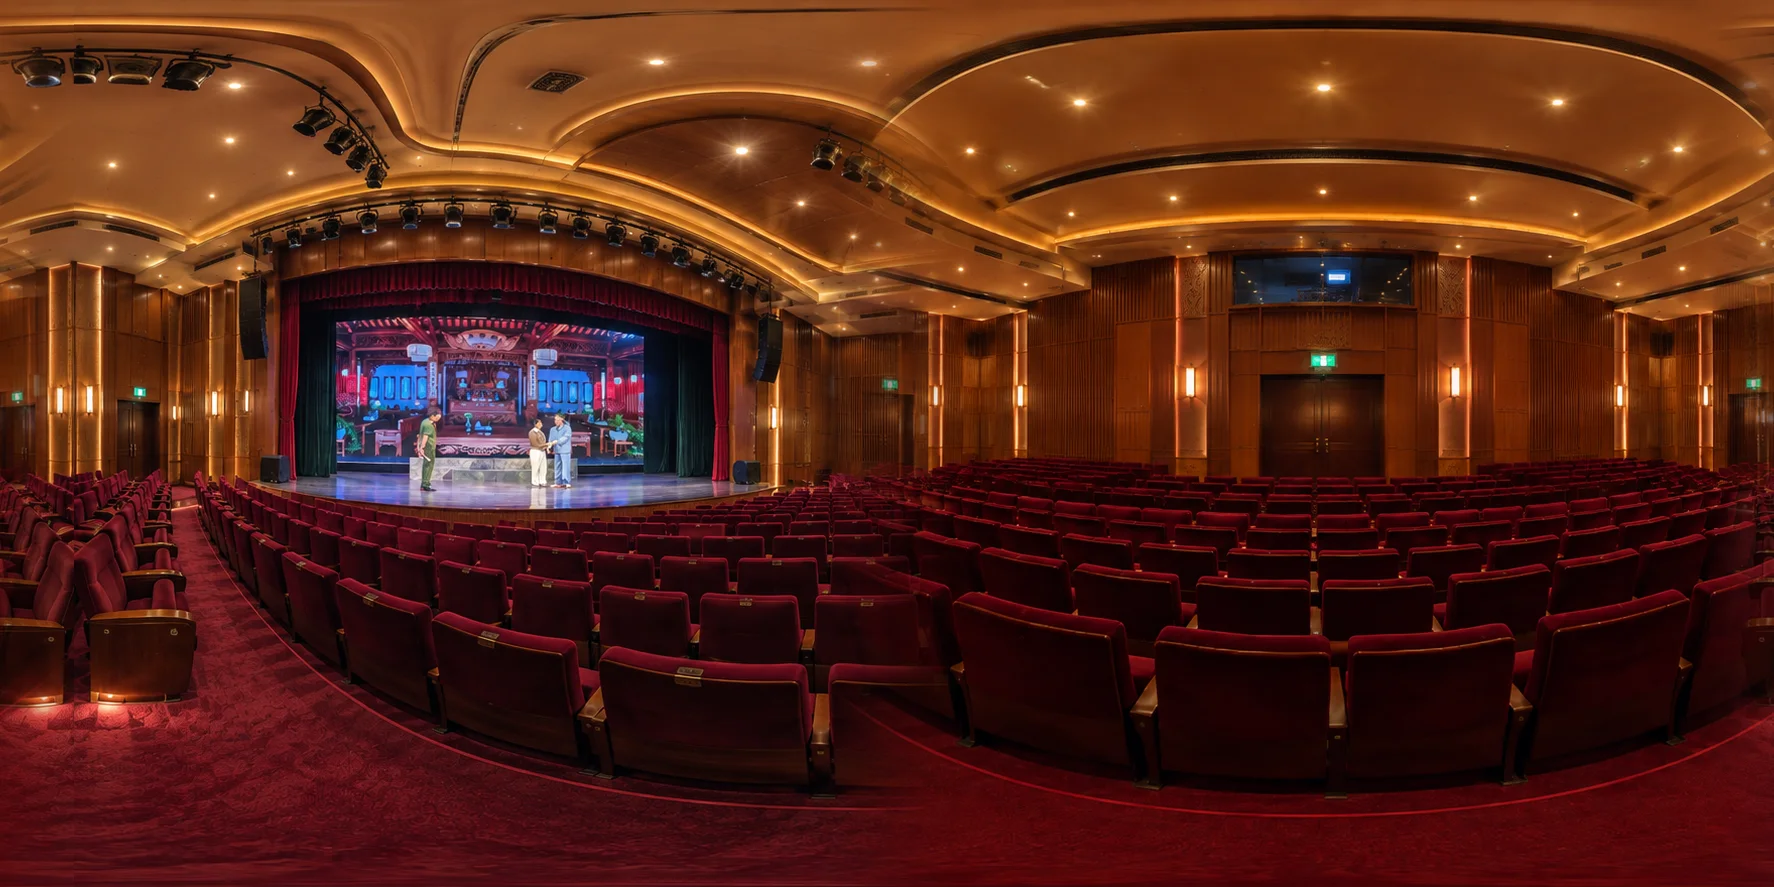
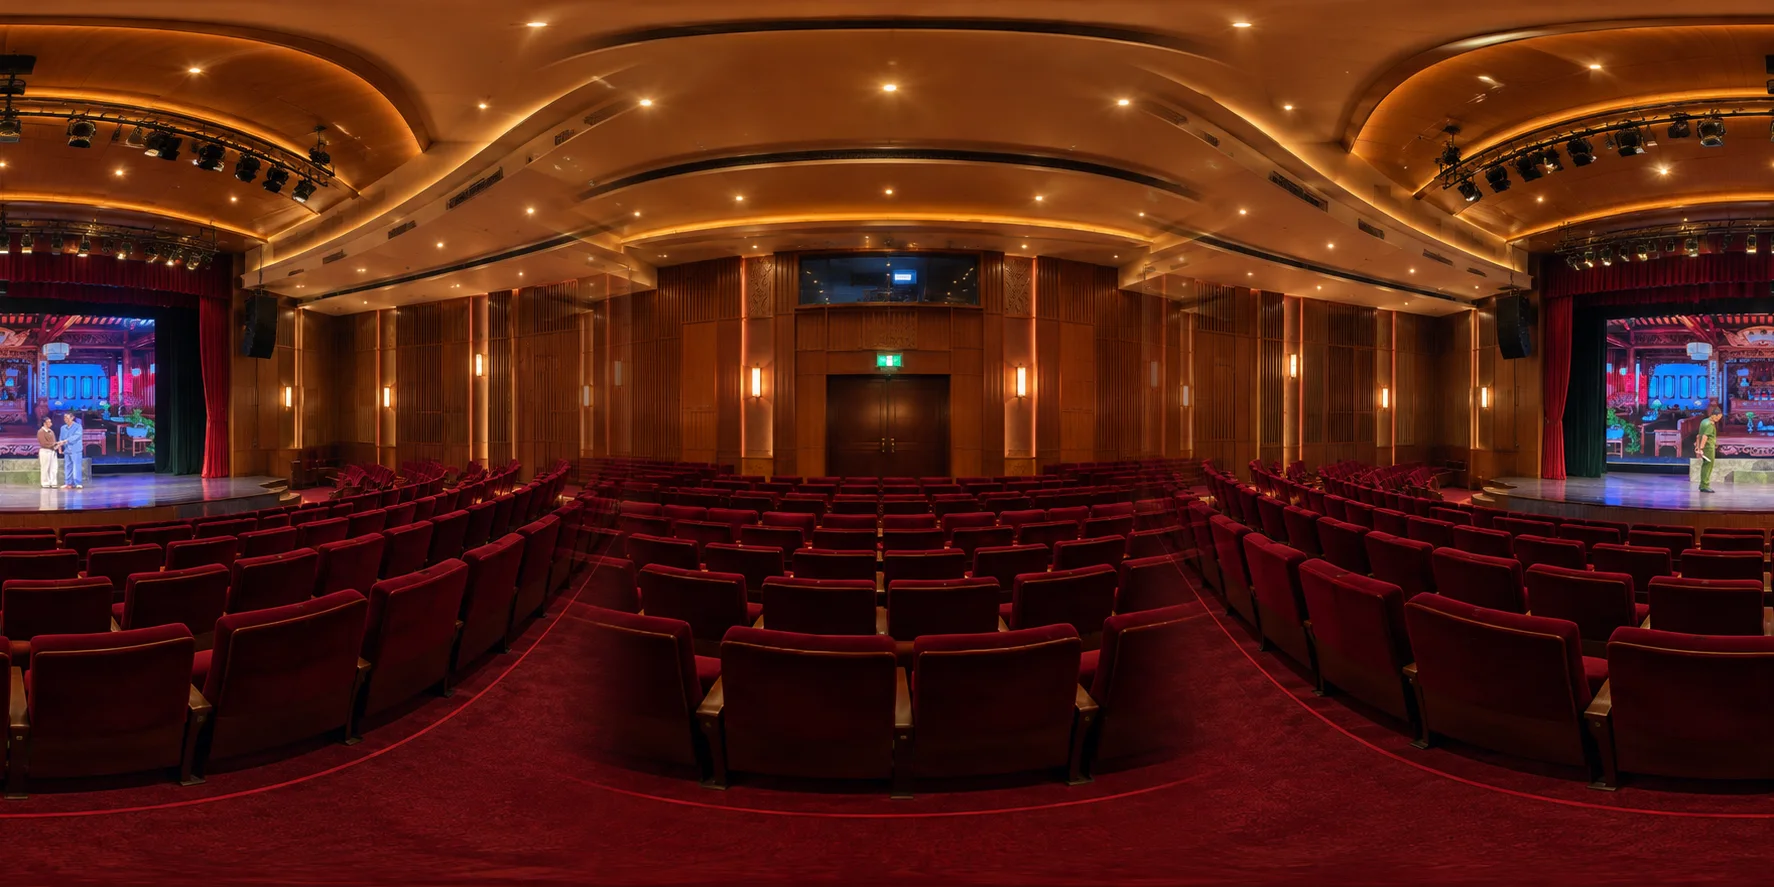
Ghép lại ảnh khán phòng từ hai tấm nguồn mới
Lần này CẢ HAI tấm nguồn đều là 180 độ gập đôi: tấm mặt trước lệch 9,4 so
với nền 28,2, tấm mặt sau 7,5 so với nền 21,2. Tấm mặt trước cũ (đã bị thay)
là 360 độ thật nên ghép ra được ảnh không đối xứng; lần này không còn cách
nào ghép ra ảnh không đối xứng từ hai nửa gập.

Cách ghép đổi theo: lấy 240 độ quanh sân khấu của tấm trước, 120 độ quanh
tường cuối của tấm sau, hoà mờ 30 độ ở hai chỗ nối — chỗ nối rơi vào tường
hai bên nên không thấy vết. Mối nối trái-phải 5,6/255.

Kết quả: sân khấu hiện ĐÚNG MỘT LẦN ở 0 độ, tường cuối phòng với phòng kỹ
thuật hiện đúng một lần ở 180 độ, quay một vòng đi hết được phòng. Nhưng
hai bên tường là ảnh gương của nhau, nên phép quét vẫn báo đối xứng (9 so
với nền 25,7). Khán phòng thật vốn đối xứng qua trục sân khấu - lối đi giữa,
nên nhìn không sai, chỉ là không phải 360 độ nội dung riêng biệt.

Sân khấu nằm ở 0 độ nên data-yaw đổi từ 90 xuống 0. Ảnh lên ?v=4.

diff --git a/trai-nghiem.html b/trai-nghiem.html
@@ -9,7 +9,7 @@
 <link rel="preconnect" href="https://fonts.googleapis.com" />
 <link rel="preconnect" href="https://fonts.gstatic.com" crossorigin />
 <link href="https://fonts.googleapis.com/css2?family=Be+Vietnam+Pro:wght@400;500;600;700&family=Noto+Serif:wght@400;700;900&family=Playfair+Display:wght@700;900&display=swap" rel="stylesheet" />
-<link rel="stylesheet" href="./styles.css?v=64" />
+<link rel="stylesheet" href="./styles.css?v=65" />
 <link rel="icon" type="image/png" href="./anh/logo.png" />
 </head>
 <body>
@@ -118,7 +118,7 @@
          Chỉ khai báo ở ĐÂY một lần. pano.js nhân bản nguyên hàng này vào trong
          khung để dùng khi xem toàn màn hình, nên thêm ở đây là có ở cả hai chỗ. -->
     <div class="scenes" role="tablist" aria-label="Chọn khu vực tham quan">
-      <button type="button" class="scene is-active" data-scene-btn="khan-phong" data-yaw="90" role="tab" aria-selected="true">Khán phòng</button>
+      <button type="button" class="scene is-active" data-scene-btn="khan-phong" data-yaw="0" role="tab" aria-selected="true">Khán phòng</button>
       <button type="button" class="scene" data-scene-btn="san-khau" role="tab" aria-selected="false">Sân khấu</button>
       <button type="button" class="scene" data-scene-btn="tien-sanh" role="tab" aria-selected="false">Tiền sảnh</button>
       <button type="button" class="scene" data-scene-btn="hau-truong" role="tab" aria-selected="false">Hậu trường</button>

diff --git a/styles.css b/styles.css
@@ -1643,7 +1643,7 @@ kbd {
    ảnh cũ mãi, tải lại trang cũng vô ích. Đổi ?v= là đổi đường dẫn, trình
    duyệt coi như tệp khác và tải mới. Đây là lý do tấm 360 gập đôi đầu tiên
    còn bám lại sau khi đã thay bằng tấm 360 thật. */
-.pano[data-scene="khan-phong"] { --pano: url("./anh/360/khan-phong.webp?v=3"); }
+.pano[data-scene="khan-phong"] { --pano: url("./anh/360/khan-phong.webp?v=4"); }
 .pano[data-scene="san-khau"] {
   --pano:
     radial-gradient(30% 20% at 50% 46%, rgba(255, 224, 94, .55), transparent 70%),

diff --git a/tin-bai.html b/tin-bai.html
@@ -9,7 +9,7 @@
 <link rel="preconnect" href="https://fonts.googleapis.com" />
 <link rel="preconnect" href="https://fonts.gstatic.com" crossorigin />
 <link href="https://fonts.googleapis.com/css2?family=Be+Vietnam+Pro:wght@400;500;600;700&family=Noto+Serif:wght@400;700;900&family=Playfair+Display:wght@700;900&display=swap" rel="stylesheet" />
-<link rel="stylesheet" href="./styles.css?v=64" />
+<link rel="stylesheet" href="./styles.css?v=65" />
 <link rel="icon" type="image/png" href="./anh/logo.png" />
 <meta name="robots" content="noindex" />
 </head>

diff --git a/index.html b/index.html
@@ -13,7 +13,7 @@
 <link rel="preconnect" href="https://fonts.googleapis.com" />
 <link rel="preconnect" href="https://fonts.gstatic.com" crossorigin />
 <link href="https://fonts.googleapis.com/css2?family=Be+Vietnam+Pro:wght@400;500;600;700&family=Noto+Serif:wght@400;700;900&family=Playfair+Display:wght@700;900&display=swap" rel="stylesheet" />
-<link rel="stylesheet" href="./styles.css?v=64" />
+<link rel="stylesheet" href="./styles.css?v=65" />
 <link rel="icon" type="image/png" href="./anh/logo.png" />
 </head>
 <body>

diff --git a/dat-cho.html b/dat-cho.html
@@ -9,7 +9,7 @@
 <link rel="preconnect" href="https://fonts.googleapis.com" />
 <link rel="preconnect" href="https://fonts.gstatic.com" crossorigin />
 <link href="https://fonts.googleapis.com/css2?family=Be+Vietnam+Pro:wght@400;500;600;700&family=Noto+Serif:wght@400;700;900&family=Playfair+Display:wght@700;900&display=swap" rel="stylesheet" />
-<link rel="stylesheet" href="./styles.css?v=64" />
+<link rel="stylesheet" href="./styles.css?v=65" />
 <link rel="icon" type="image/png" href="./anh/logo.png" />
 </head>
 <body>

diff --git a/gioi-thieu.html b/gioi-thieu.html
@@ -9,7 +9,7 @@
 <link rel="preconnect" href="https://fonts.googleapis.com" />
 <link rel="preconnect" href="https://fonts.gstatic.com" crossorigin />
 <link href="https://fonts.googleapis.com/css2?family=Be+Vietnam+Pro:wght@400;500;600;700&family=Noto+Serif:wght@400;700;900&family=Playfair+Display:wght@700;900&display=swap" rel="stylesheet" />
-<link rel="stylesheet" href="./styles.css?v=64" />
+<link rel="stylesheet" href="./styles.css?v=65" />
 <link rel="icon" type="image/png" href="./anh/logo.png" />
 </head>
 <body>

diff --git a/lich-su.html b/lich-su.html
@@ -9,7 +9,7 @@
 <link rel="preconnect" href="https://fonts.googleapis.com" />
 <link rel="preconnect" href="https://fonts.gstatic.com" crossorigin />
 <link href="https://fonts.googleapis.com/css2?family=Be+Vietnam+Pro:wght@400;500;600;700&family=Noto+Serif:wght@400;700;900&family=Playfair+Display:wght@700;900&display=swap" rel="stylesheet" />
-<link rel="stylesheet" href="./styles.css?v=64" />
+<link rel="stylesheet" href="./styles.css?v=65" />
 <link rel="icon" type="image/png" href="./anh/logo.png" />
 </head>
 <body>

diff --git a/nghe-si.html b/nghe-si.html
@@ -9,7 +9,7 @@
 <link rel="preconnect" href="https://fonts.googleapis.com" />
 <link rel="preconnect" href="https://fonts.gstatic.com" crossorigin />
 <link href="https://fonts.googleapis.com/css2?family=Be+Vietnam+Pro:wght@400;500;600;700&family=Noto+Serif:wght@400;700;900&family=Playfair+Display:wght@700;900&display=swap" rel="stylesheet" />
-<link rel="stylesheet" href="./styles.css?v=64" />
+<link rel="stylesheet" href="./styles.css?v=65" />
 <link rel="icon" type="image/png" href="./anh/logo.png" />
 </head>
 <body>

diff --git a/tin-tuc.html b/tin-tuc.html
@@ -9,7 +9,7 @@
 <link rel="preconnect" href="https://fonts.googleapis.com" />
 <link rel="preconnect" href="https://fonts.gstatic.com" crossorigin />
 <link href="https://fonts.googleapis.com/css2?family=Be+Vietnam+Pro:wght@400;500;600;700&family=Noto+Serif:wght@400;700;900&family=Playfair+Display:wght@700;900&display=swap" rel="stylesheet" />
-<link rel="stylesheet" href="./styles.css?v=64" />
+<link rel="stylesheet" href="./styles.css?v=65" />
 <link rel="icon" type="image/png" href="./anh/logo.png" />
 </head>
 <body>

diff --git a/vo-dien.html b/vo-dien.html
@@ -9,7 +9,7 @@
 <link rel="preconnect" href="https://fonts.googleapis.com" />
 <link rel="preconnect" href="https://fonts.gstatic.com" crossorigin />
 <link href="https://fonts.googleapis.com/css2?family=Be+Vietnam+Pro:wght@400;500;600;700&family=Noto+Serif:wght@400;700;900&family=Playfair+Display:wght@700;900&display=swap" rel="stylesheet" />
-<link rel="stylesheet" href="./styles.css?v=64" />
+<link rel="stylesheet" href="./styles.css?v=65" />
 <link rel="icon" type="image/png" href="./anh/logo.png" />
 </head>
 <body>
